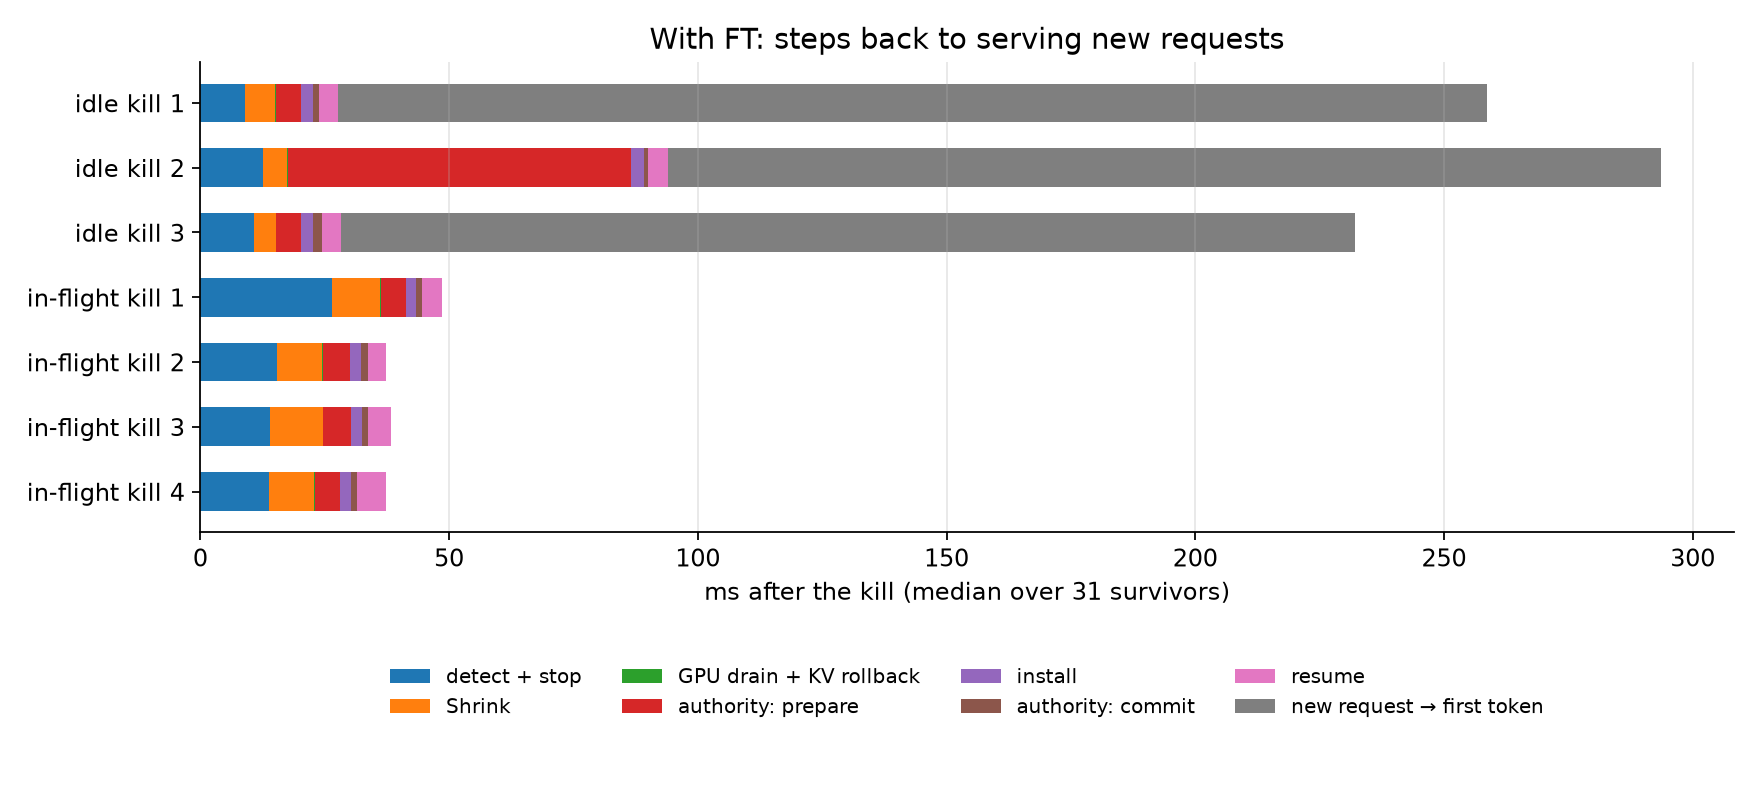
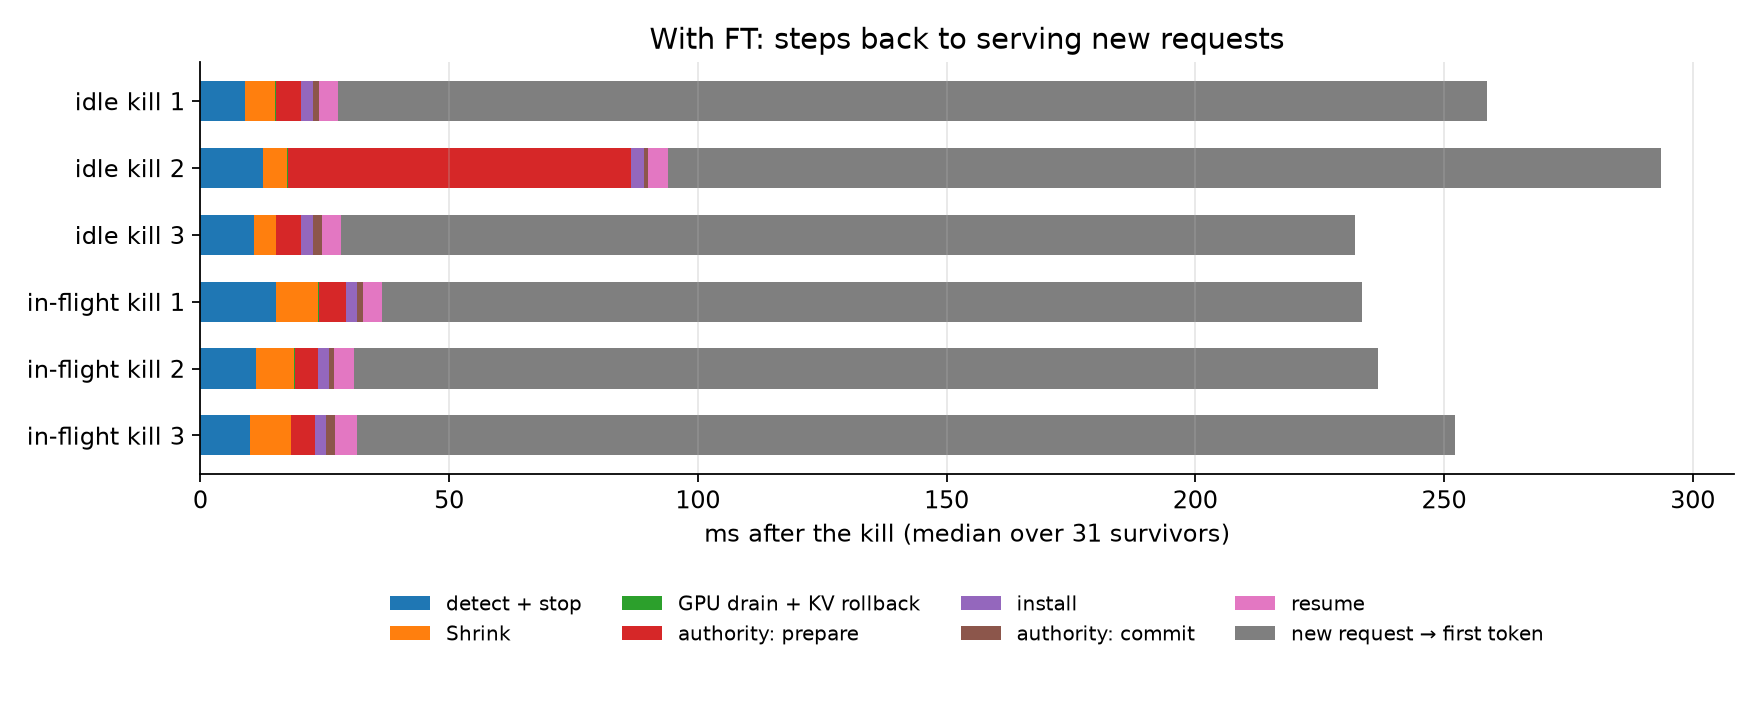
Add in-flight kills with a new-request probe to the failover chart

Changed region(s): [[0.0, 0.1222, 0.9688, 0.7639], [0.2188, 0.825, 0.875, 0.9167], [0.125, 0.0306, 0.8438, 0.1222]]

diff --git a/.wideep-ft-harness/evidence/make_eval.py b/.wideep-ft-harness/evidence/make_eval.py
@@ -115,7 +115,7 @@ def ft_recovery(run: str) -> dict | None:
 def failover_chart(runs: str) -> None:
     cases = [(f"idle kill {i}", f"{runs}/failover-7923692/ft-idle-{i}") for i in (1, 2, 3)]
     cases += [(f"in-flight kill {i}", d) for i, d in
-              enumerate(sorted(glob.glob(f"{runs}/inflight-fix-*/inflight-*")), 1)]
+              enumerate(sorted(glob.glob(f"{runs}/inflight-probe-*/inflight-*")), 1)]
     rows = [(label, ft_recovery(d)) for label, d in cases]
     rows = [(label, r) for label, r in rows if r is not None]
     short = ["detect + stop", "Shrink", "GPU drain + KV rollback", "authority: prepare",

diff --git a/.wideep-ft-harness/DESIGN.md b/.wideep-ft-harness/DESIGN.md
@@ -262,7 +262,7 @@ Not needed for the MVP; it contains the same `EPGroupHealth` deepcopy fix as com
 - **Tests:** CPU and GPU unit tests pass on the current series; the 4-GPU integration test
   (DeepSeek-V3-Lite, kill idle and mid-step) last passed on an earlier tip of the series.
 - **Build measured:** EP32 runs used a wheel from an earlier tip of the series; kernels are the same,
-  host code differs by the commit 4 fix (in-flight kills on the fixed code: 4 of 4 passed).
+  host code differs by the commit 4 fix (in-flight kills on the fixed code: 7 of 7 passed).
 
 ### Failover
 
@@ -270,16 +270,17 @@ Not needed for the MVP; it contains the same `EPGroupHealth` deepcopy fix as com
 
 ![Without FT: teardown and restart](evidence/eval_noft_failover.png)
 
-DeepSeek-R1 NVFP4, 32 GB200, rank 2 SIGKILLed. With FT: 3 idle and 4 in-flight kills, wall-clock
+DeepSeek-R1 NVFP4, 32 GB200, rank 2 SIGKILLed. With FT: 3 idle and 3 in-flight kills, wall-clock
 markers at each step on every survivor (median shown). Without FT: 2 kills and 2 clean restarts,
 plain mpirun.
 
-- With FT, survivors serve again 28–94 ms after the kill; detection and Shrink are most of it.
+- With FT, survivors serve again 28–94 ms after the kill (in-flight kills 31–37 ms); detection and Shrink are most of it.
   The authority waits for the slowest survivor: in idle kill 2 one GPU still had work queued and
   drained 65 ms after the others (not yet traced; likely the rest of an in-progress step).
-- The first new token reaches the client 0.23–0.29 s after the kill. Most of that comes after
+- A request sent right after the kill gets its first token 0.23–0.29 s after the kill, idle or
+  in flight. Most of that comes after
   recovery; a no-kill time-to-first-token was not measured, so it is not split further.
-- Requests in flight at the kill finish with exact tokens (4 of 4 runs); the lost rank's own
+- Requests in flight at the kill finish with exact tokens (3 of 3 runs); the lost rank's own
   request gets the retry error.
 - Without FT, nothing tears the job down: after a kill it hung for over 13 minutes until stopped.
   Once terminated, every node is clean within 1.5 s; the restart then takes 108–120 s, about half
